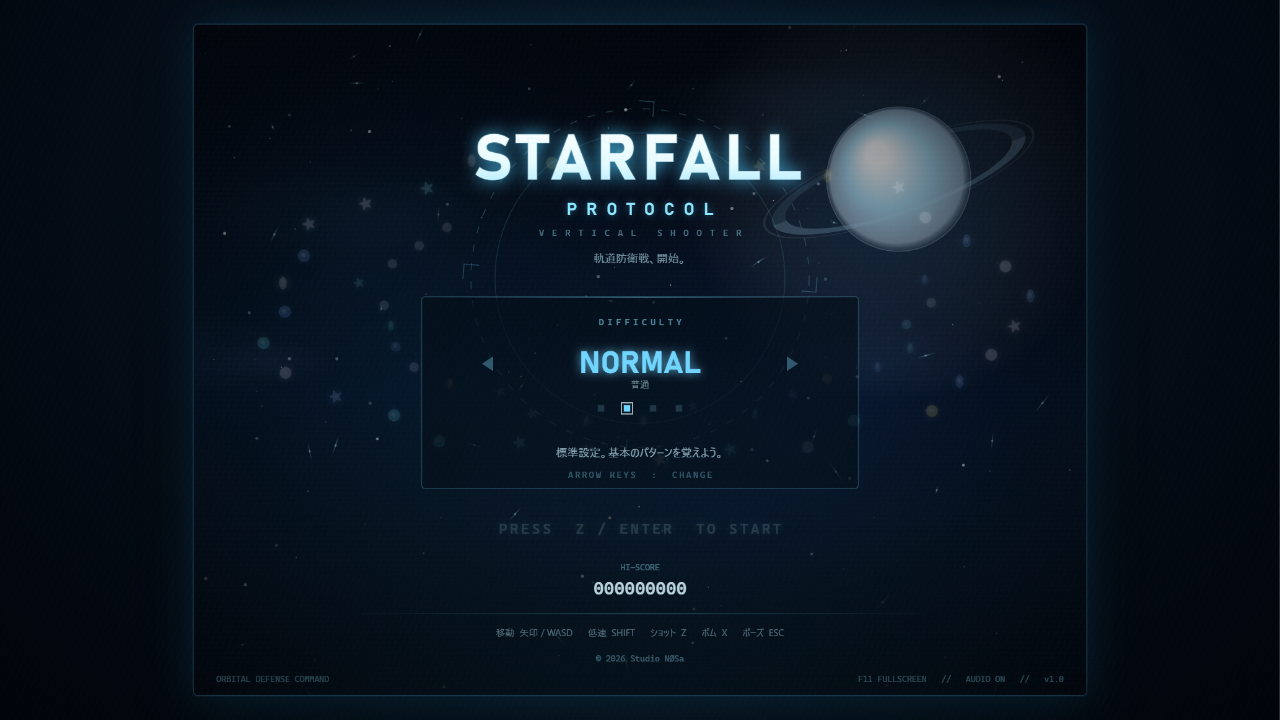
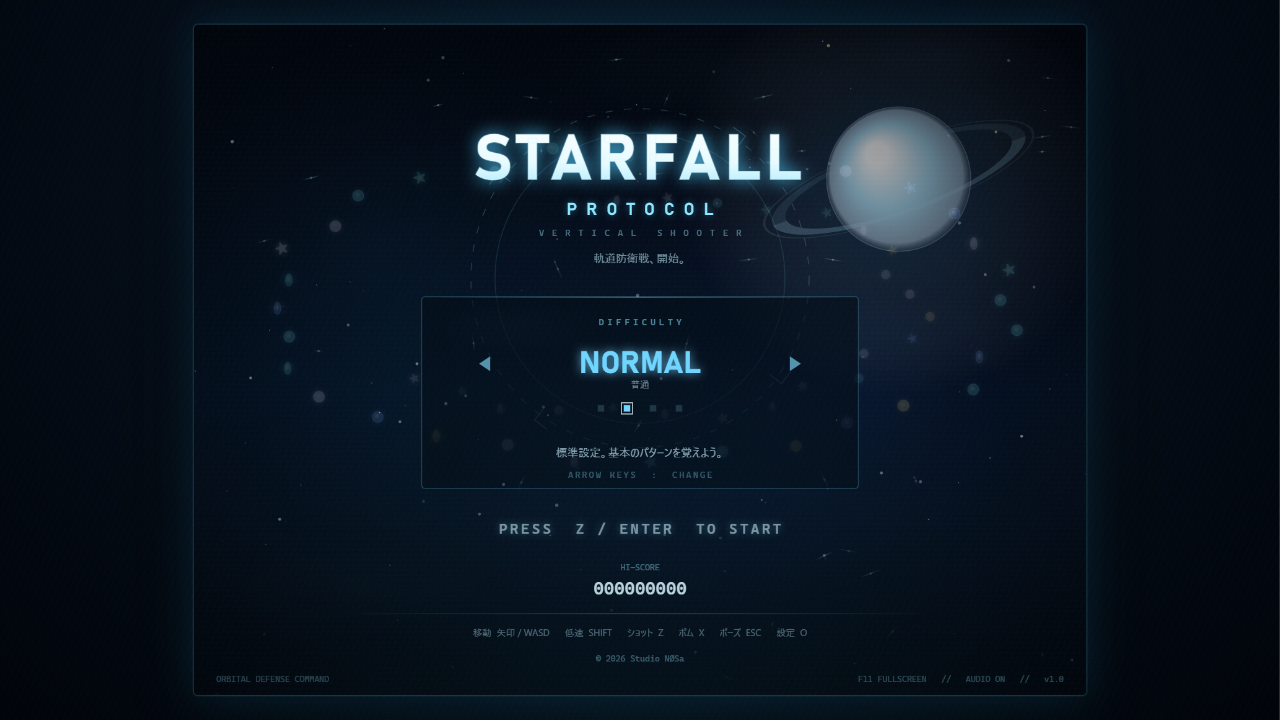
Add audio settings screen and bump to 1.0.2

diff --git a/js/game.js b/js/game.js
@@ -83,6 +83,8 @@ class Game {
     this.state = 'title';
     this.stateT = 0;
     this.time = 0;
+    this.settingsFrom = null;
+    this.settingsIndex = 0;
 
     this.score = 0;
     this.displayScore = 0;
@@ -214,6 +216,7 @@ class Game {
 
     switch (this.state) {
       case 'title': this.updateTitle(dt); break;
+      case 'settings': this.updateSettings(dt); break;
       case 'intro': this.updateIntro(dt); break;
       case 'stage': this.updateStage(dt); break;
       case 'paused': this.updatePaused(dt); break;
@@ -252,6 +255,10 @@ class Game {
 
   updateTitle(dt) {
     this.background.update(dt, 0.55);
+    if (Input.pressed('KeyO')) {
+      this.openSettings('title');
+      return;
+    }
     const prev = this.diffIndex;
     if (Input.pressed('ArrowLeft', 'KeyA', 'ArrowUp', 'KeyW')) {
       this.diffIndex = (this.diffIndex + DIFFICULTIES.length - 1) % DIFFICULTIES.length;
@@ -740,6 +747,10 @@ class Game {
   }
 
   updatePaused(dt) {
+    if (Input.pressed('KeyO')) {
+      this.openSettings('pause');
+      return;
+    }
     if (Input.pausePressed()) {
       this.state = 'stage';
       this.stateT = 0;
@@ -751,6 +762,60 @@ class Game {
     }
     if (Input.pressed('KeyQ')) {
       this.titleScreen();
+    }
+  }
+
+  openSettings(from) {
+    this.settingsFrom = from;
+    this.settingsIndex = 0;
+    this.state = 'settings';
+    this.stateT = 0;
+    AudioSys.play('select');
+  }
+
+  returnFromSettings() {
+    this.state = this.settingsFrom === 'pause' ? 'paused' : 'title';
+    this.stateT = 0;
+    this.settingsFrom = null;
+    AudioSys.play('select');
+  }
+
+  updateSettings(dt) {
+    this.background.update(dt, 0.45);
+
+    if (Input.pressed('Escape', 'KeyO')) {
+      this.returnFromSettings();
+      return;
+    }
+
+    const rowCount = 4;
+    if (Input.pressed('ArrowUp', 'KeyW')) {
+      this.settingsIndex = (this.settingsIndex + rowCount - 1) % rowCount;
+      AudioSys.play('select');
+    }
+    if (Input.pressed('ArrowDown', 'KeyS')) {
+      this.settingsIndex = (this.settingsIndex + 1) % rowCount;
+      AudioSys.play('select');
+    }
+
+    if (Input.pressed('KeyR')) {
+      AudioSys.resetVolumes();
+      AudioSys.play('select');
+    }
+
+    const left = Input.pressed('ArrowLeft', 'KeyA');
+    const right = Input.pressed('ArrowRight', 'KeyD');
+    if (this.settingsIndex === 0 && (left || right)) {
+      AudioSys.setBgmVolume(AudioSys.bgmVolume + (right ? 0.1 : -0.1));
+      AudioSys.play('select');
+    } else if (this.settingsIndex === 1 && (left || right)) {
+      AudioSys.setSfxVolume(AudioSys.sfxVolume + (right ? 0.1 : -0.1));
+      AudioSys.play('select');
+    } else if (this.settingsIndex === 2 && (left || right || Input.confirmPressed())) {
+      AudioSys.toggleMute();
+      AudioSys.play('select');
+    } else if (this.settingsIndex === 3 && Input.confirmPressed()) {
+      this.returnFromSettings();
     }
   }
 
@@ -806,6 +871,7 @@ class Game {
     ctx.setTransform(1.5, 0, 0, 1.5, 0, 0);
     ctx.clearRect(0, 0, VIEW_W, VIEW_H);
 
+    if (this.state === 'settings') { this.drawSettings(ctx); return; }
     if (this.state === 'title') { this.drawTitle(ctx); return; }
     if (this.state === 'allclear') { this.drawAllClear(ctx); return; }
 
@@ -1478,6 +1544,128 @@ class Game {
     ctx.restore();
   }
 
+  drawSettings(ctx) {
+    this.background.draw(ctx);
+    const wash = ctx.createLinearGradient(0, 0, 0, VIEW_H);
+    wash.addColorStop(0, 'rgba(2,6,13,0.62)');
+    wash.addColorStop(0.55, 'rgba(2,8,16,0.78)');
+    wash.addColorStop(1, 'rgba(1,3,8,0.9)');
+    ctx.fillStyle = wash;
+    ctx.fillRect(0, 0, VIEW_W, VIEW_H);
+
+    const cx = VIEW_W / 2;
+    const px = 190;
+    const py = 128;
+    const pw = 580;
+    const ph = 464;
+    const panel = ctx.createLinearGradient(0, py, 0, py + ph);
+    panel.addColorStop(0, 'rgba(7,22,36,0.96)');
+    panel.addColorStop(1, 'rgba(2,8,15,0.97)');
+    ctx.fillStyle = panel;
+    roundRectPath(ctx, px, py, pw, ph, 4);
+    ctx.fill();
+    ctx.strokeStyle = 'rgba(120,225,255,0.32)';
+    ctx.lineWidth = 1;
+    ctx.stroke();
+    ctx.fillStyle = 'rgba(120,225,255,0.55)';
+    ctx.fillRect(px + 28, py, pw - 56, 1);
+
+    drawSpacedText(ctx, 'SYSTEM CONFIG', cx, py + 34, 4.5,
+      `9px ${MONO}`, 'rgba(120,220,245,0.55)', 'center');
+    glowText(ctx, 'AUDIO SETTINGS', cx, py + 76, `700 32px ${HEAD}`,
+      '#f1fcff', 'rgba(80,205,255,0.5)', 14, 'center');
+    drawSpacedText(ctx, 'サウンド設定', cx, py + 104, 3,
+      `10px ${SANS}`, 'rgba(160,225,240,0.5)', 'center');
+    ctx.strokeStyle = 'rgba(120,225,255,0.16)';
+    ctx.beginPath();
+    ctx.moveTo(px + 54, py + 126);
+    ctx.lineTo(px + pw - 54, py + 126);
+    ctx.stroke();
+
+    const rows = [
+      { key: 'bgm', label: 'BGM VOLUME', jp: '音楽' },
+      { key: 'sfx', label: 'SFX VOLUME', jp: '効果音' },
+      { key: 'mute', label: 'MUTE', jp: '消音' },
+      { key: 'back', label: 'BACK', jp: '戻る' },
+    ];
+    const rowY = [py + 168, py + 226, py + 284, py + 342];
+
+    rows.forEach((row, i) => {
+      const y = rowY[i];
+      const selected = this.settingsIndex === i;
+      if (selected) {
+        ctx.fillStyle = 'rgba(80,210,255,0.085)';
+        roundRectPath(ctx, px + 28, y - 25, pw - 56, 44, 2);
+        ctx.fill();
+        ctx.fillStyle = 'rgba(120,235,255,0.85)';
+        ctx.fillRect(px + 28, y - 25, 2, 44);
+      }
+
+      ctx.textAlign = 'left';
+      ctx.font = `600 11px ${MONO}`;
+      ctx.fillStyle = selected ? '#dffaff' : 'rgba(175,225,235,0.7)';
+      ctx.fillText(row.label, px + 52, y);
+      ctx.font = `9px ${SANS}`;
+      ctx.fillStyle = 'rgba(130,200,220,0.4)';
+      ctx.fillText(row.jp, px + 52, y + 15);
+
+      if (row.key === 'bgm' || row.key === 'sfx') {
+        const value = row.key === 'bgm' ? AudioSys.bgmVolume : AudioSys.sfxVolume;
+        const barX = px + 240;
+        const barY = y - 3;
+        const barW = 220;
+        ctx.fillStyle = 'rgba(5,15,24,0.85)';
+        ctx.fillRect(barX, barY, barW, 6);
+        const fill = ctx.createLinearGradient(barX, 0, barX + barW, 0);
+        fill.addColorStop(0, '#2e9bc4');
+        fill.addColorStop(1, '#9ff4ff');
+        ctx.fillStyle = AudioSys.muted ? 'rgba(110,160,180,0.45)' : fill;
+        ctx.fillRect(barX, barY, barW * value, 6);
+        ctx.strokeStyle = 'rgba(140,225,245,0.18)';
+        ctx.lineWidth = 1;
+        for (let j = 0; j <= 10; j++) {
+          const tx = barX + (j / 10) * barW;
+          ctx.beginPath();
+          ctx.moveTo(tx, barY - 2);
+          ctx.lineTo(tx, barY + 8);
+          ctx.stroke();
+        }
+        ctx.beginPath();
+        ctx.fillStyle = '#eaffff';
+        ctx.arc(barX + barW * value, barY + 3, 3.2, 0, TAU);
+        ctx.fill();
+        ctx.textAlign = 'right';
+        ctx.font = `600 15px ${MONO}`;
+        ctx.fillStyle = selected ? '#f2fdff' : 'rgba(210,240,248,0.72)';
+        ctx.fillText(`${Math.round(value * 100)}%`, px + pw - 52, y + 2);
+      } else if (row.key === 'mute') {
+        ctx.textAlign = 'right';
+        ctx.font = `600 14px ${MONO}`;
+        ctx.fillStyle = AudioSys.muted ? '#ff9b82' : '#8ff5ca';
+        ctx.fillText(AudioSys.muted ? 'ON' : 'OFF', px + pw - 52, y + 2);
+      } else {
+        ctx.textAlign = 'right';
+        ctx.font = `11px ${MONO}`;
+        ctx.fillStyle = selected ? '#dffaff' : 'rgba(170,220,235,0.55)';
+        ctx.fillText('ESC / O', px + pw - 52, y + 2);
+      }
+    });
+
+    ctx.textAlign = 'center';
+    ctx.font = `9px ${MONO}`;
+    ctx.fillStyle = 'rgba(140,210,228,0.52)';
+    ctx.fillText('UP/DOWN : SELECT    LEFT/RIGHT : ADJUST    Z / ENTER : TOGGLE', cx, py + 400);
+    ctx.fillStyle = 'rgba(130,200,220,0.38)';
+    ctx.fillText('M : MUTE    R : RESET VOLUMES    ESC / O : BACK', cx, py + 420);
+
+    ctx.font = `9px ${MONO}`;
+    ctx.fillStyle = 'rgba(130,200,220,0.3)';
+    ctx.textAlign = 'left';
+    ctx.fillText('STARFALL PROTOCOL // AUDIO CONFIG', 24, VIEW_H - 24);
+    ctx.textAlign = 'right';
+    ctx.fillText('© 2026 Studio NØSa', VIEW_W - 24, VIEW_H - 24);
+  }
+
   drawPauseOverlay(ctx) {
     ctx.save();
     ctx.fillStyle = 'rgba(1,5,12,0.76)';
@@ -1504,6 +1692,7 @@ class Game {
       ['ESC / P', '再開'],
       ['R', 'このエリアをリトライ'],
       ['Q', 'タイトルへ'],
+      ['O', '設定 / 音量'],
       ['M', AudioSys.muted ? 'サウンド ON' : 'サウンド OFF'],
     ];
     items.forEach((row, i) => {
@@ -1833,7 +2022,7 @@ class Game {
     ctx.textAlign = 'center';
     ctx.font = `10px ${SANS}`;
     ctx.fillStyle = 'rgba(170,215,230,0.45)';
-    ctx.fillText('移動  矢印 / WASD      低速  SHIFT      ショット  Z      ボム  X      ポーズ  ESC', cx, 654);
+    ctx.fillText('移動  矢印 / WASD      低速  SHIFT      ショット  Z      ボム  X      ポーズ  ESC      設定  O', cx, 654);
 
     ctx.textAlign = 'center';
     ctx.font = `9px ${MONO}`;

diff --git a/js/audio.js b/js/audio.js
@@ -26,6 +26,7 @@ const AudioSys = {
   pendingTrack: null,
   bgm: null,
   bgmVolume: 0.5,
+  sfxVolume: 1.0,
   _lastSfx: Object.create(null),
 
   init() {
@@ -42,6 +43,10 @@ const AudioSys = {
       return;
     }
     this.muted = !!Storage.get('gdr_muted', false);
+    const savedBgm = Number(Storage.get('gdr_bgm_vol', this.bgmVolume));
+    const savedSfx = Number(Storage.get('gdr_sfx_vol', this.sfxVolume));
+    this.bgmVolume = Number.isFinite(savedBgm) ? clamp(savedBgm, 0, 1) : 0.5;
+    this.sfxVolume = Number.isFinite(savedSfx) ? clamp(savedSfx, 0, 1) : 1.0;
 
     this.comp = this.ctx.createDynamicsCompressor();
     this.comp.threshold.value = -20;
@@ -52,7 +57,7 @@ const AudioSys = {
     this.comp.connect(this.ctx.destination);
 
     this.master = this.ctx.createGain();
-    this.master.gain.value = this.muted ? 0 : 0.72;
+    this.master.gain.value = this.muted ? 0 : 0.72 * this.sfxVolume;
     this.master.connect(this.comp);
 
     this.sfx = this.ctx.createGain();
@@ -75,11 +80,32 @@ const AudioSys = {
     if (this.master && this.ctx) {
       const t = this.ctx.currentTime;
       this.master.gain.cancelScheduledValues(t);
-      this.master.gain.setTargetAtTime(this.muted ? 0 : 0.72, t, 0.03);
+      this.master.gain.setTargetAtTime(this.muted ? 0 : 0.72 * this.sfxVolume, t, 0.03);
     }
     if (this.bgm) this.bgm.volume = this.muted ? 0 : this.bgmVolume;
     if (!this.muted) this.resumeBgm();
     return this.muted;
+  },
+
+  setBgmVolume(value) {
+    this.bgmVolume = clamp(value, 0, 1);
+    Storage.set('gdr_bgm_vol', this.bgmVolume);
+    if (this.bgm) this.bgm.volume = this.muted ? 0 : this.bgmVolume;
+  },
+
+  setSfxVolume(value) {
+    this.sfxVolume = clamp(value, 0, 1);
+    Storage.set('gdr_sfx_vol', this.sfxVolume);
+    if (this.master && this.ctx) {
+      const t = this.ctx.currentTime;
+      this.master.gain.cancelScheduledValues(t);
+      this.master.gain.setTargetAtTime(this.muted ? 0 : 0.72 * this.sfxVolume, t, 0.03);
+    }
+  },
+
+  resetVolumes() {
+    this.setBgmVolume(0.5);
+    this.setSfxVolume(1.0);
   },
 
   _makeNoise() {
